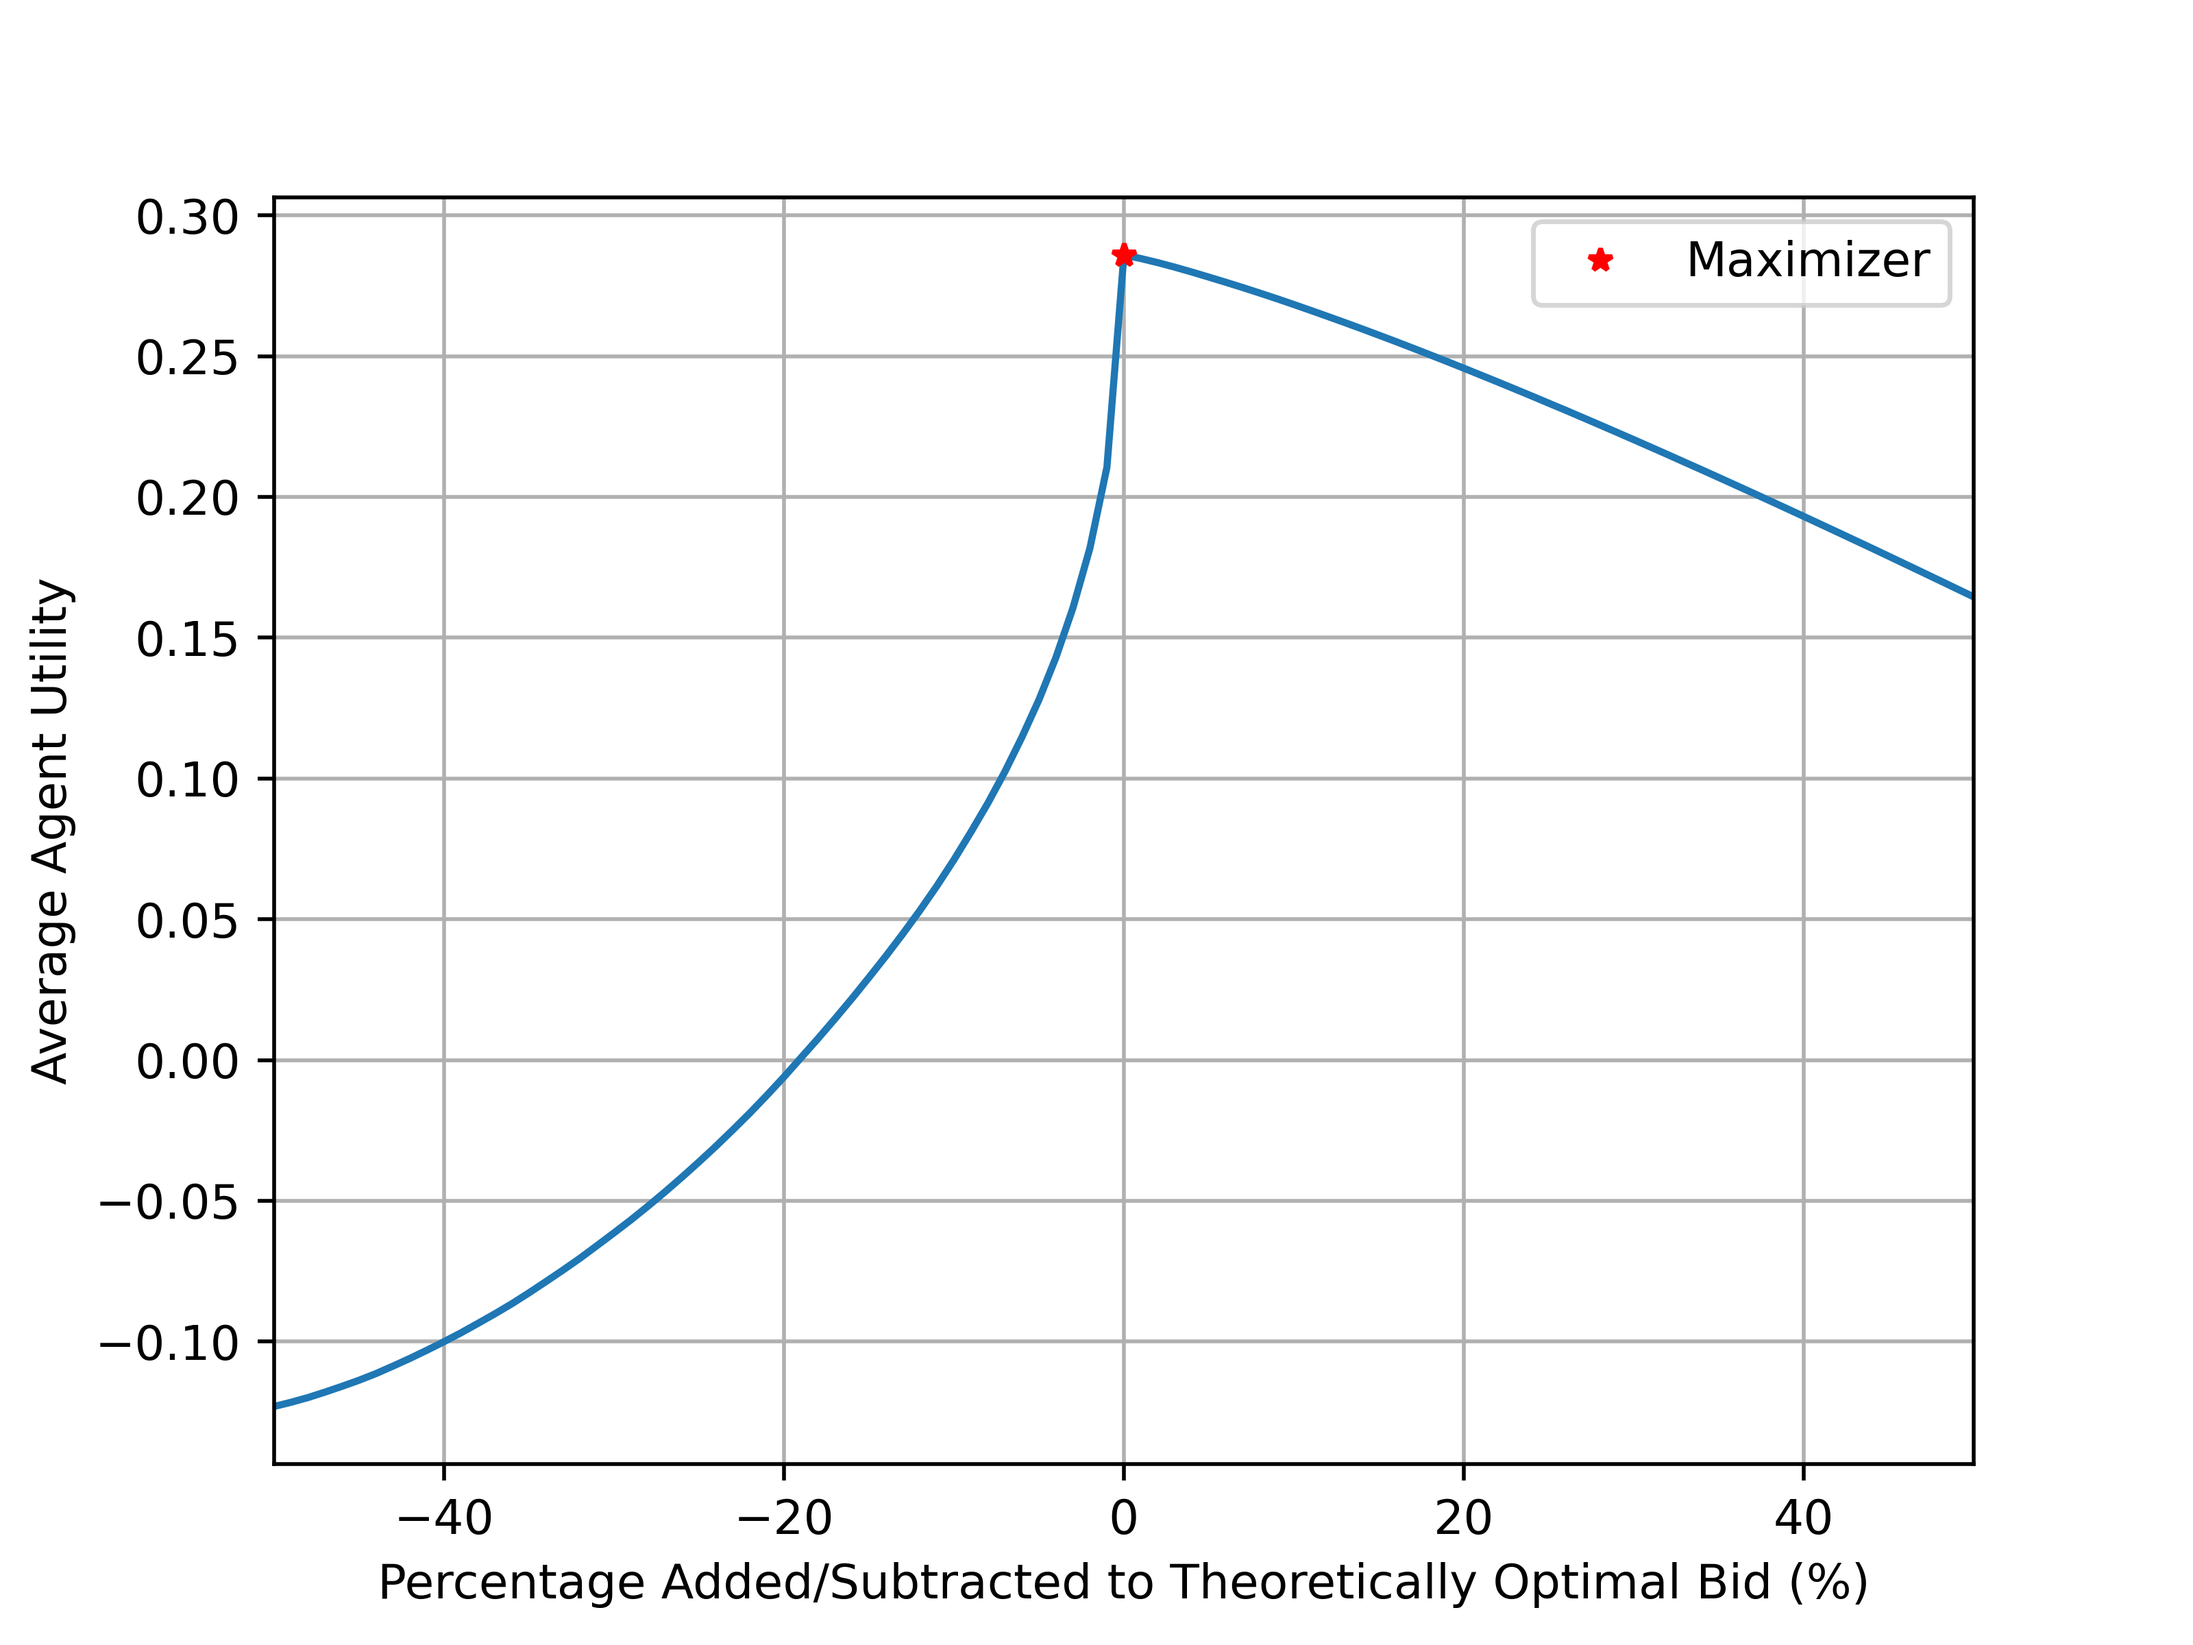
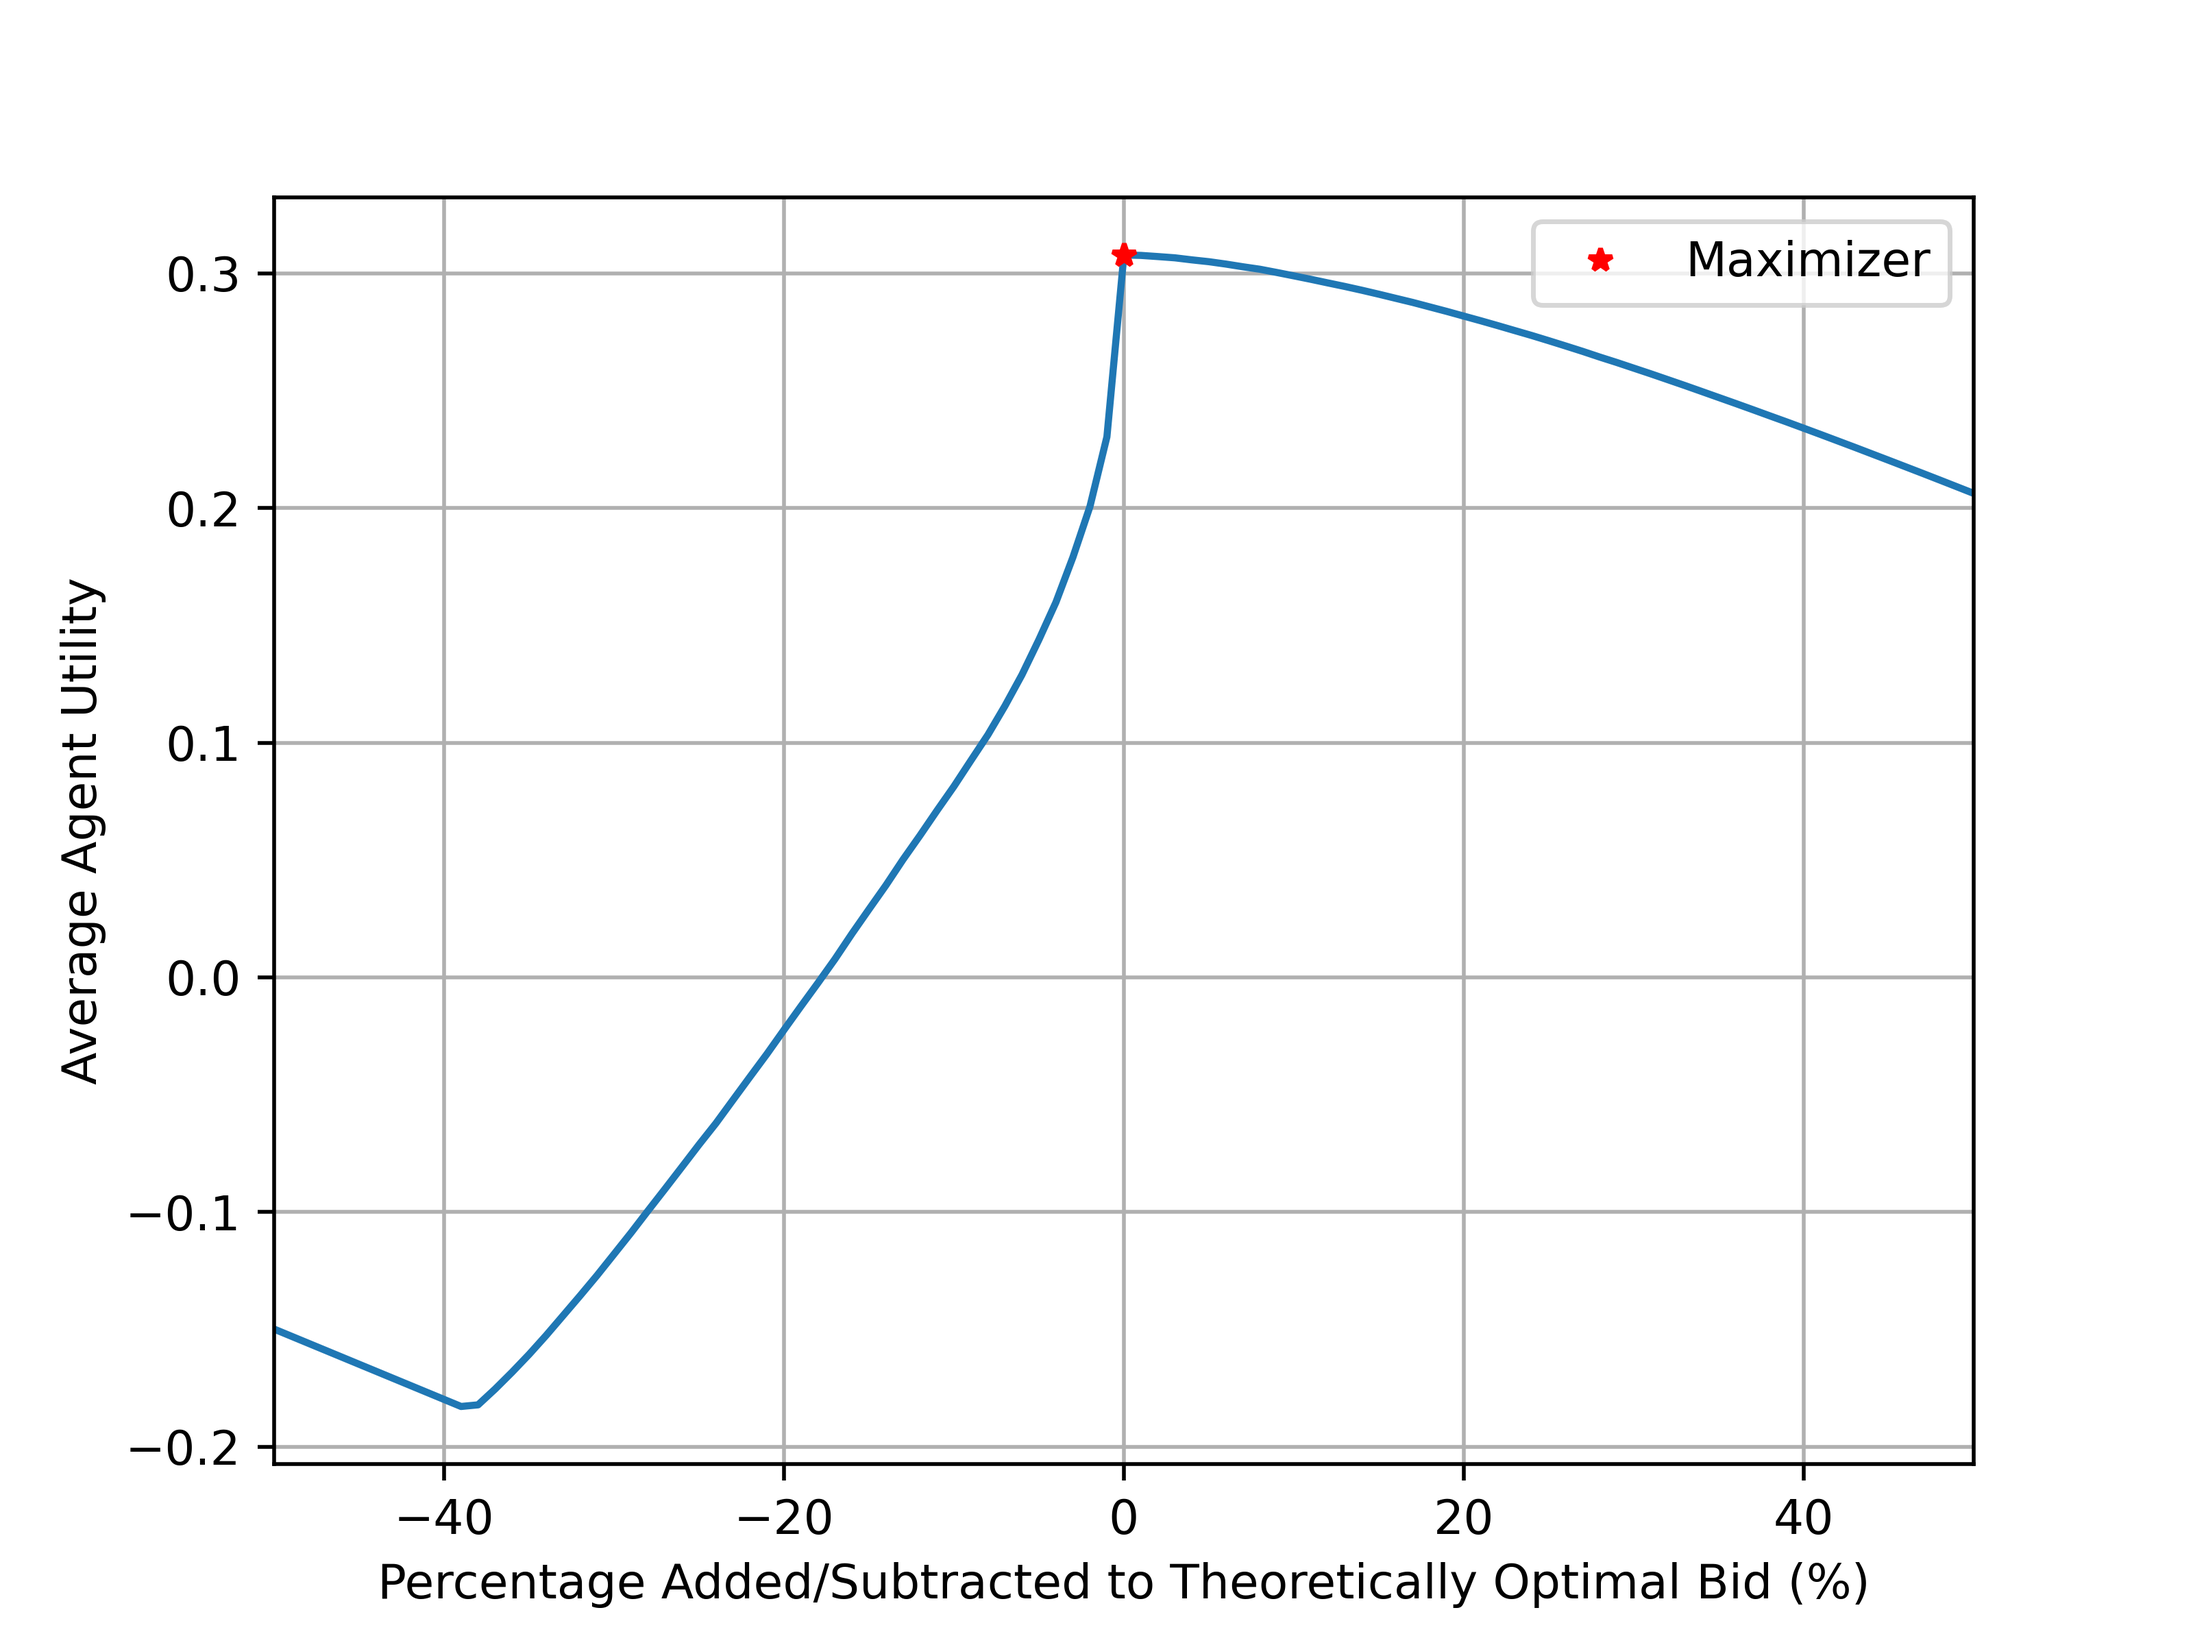
fix uniform distribution issue

diff --git a/equilibrium.py b/equilibrium.py
@@ -5,7 +5,7 @@ from tqdm import tqdm
 
 def regauc_equilibrium(lambda_max, beta=False):
 
-    num_trials = 1000000
+    num_trials = 100000
     p_epsilon = 0.75
     diff = np.linspace(0.5, 1.5, 101, endpoint=True)
     i = 0
@@ -30,14 +30,18 @@ def regauc_equilibrium(lambda_max, beta=False):
         # get optimal bids & utility
         v_i_p = total_values * lambdas
         v_i_d = total_values * (1 - lambdas)
-        sq_v_i_p = np.square(v_i_p)
+        Fv = np.empty_like(v_i_p)
+        int_Fv = np.empty_like(v_i_p)
         if beta:
-            bids = np.minimum(1, p_epsilon + sq_v_i_p * (3 - 8 * v_i_p + 6 * sq_v_i_p))
+            bids = np.minimum(1, p_epsilon + np.square(v_i_p) * (3 - 8 * v_i_p + 6 * np.square(v_i_p)))
         else:
-            Fv = 2*v_i_p*np.log(1/p_epsilon) / (1-p_epsilon)
-            int_Fv = sq_v_i_p*np.log(1/p_epsilon) / (1-p_epsilon)
-            bids = np.minimum(1, p_epsilon + v_i_p*Fv - int_Fv)
-        utilities = v_i_d - bids + v_i_p * Fv
+            lower_bool = v_i_p <= p_epsilon/2
+            Fv[lower_bool] = 2 * v_i_p[lower_bool] * np.log(p_epsilon) / (p_epsilon-1)
+            Fv[~lower_bool] = (2 * v_i_p[~lower_bool] * (np.log(2*v_i_p[~lower_bool]) - 1) + p_epsilon) / (p_epsilon - 1)
+            int_Fv[lower_bool] = np.square(v_i_p[lower_bool])*np.log(p_epsilon) / (p_epsilon-1)
+            int_Fv[~lower_bool] = (4*np.square(v_i_p[~lower_bool]) * (2*np.log(2*v_i_p[~lower_bool]) - 3) + 8*p_epsilon*v_i_p[~lower_bool] - p_epsilon**2) / (8*(p_epsilon - 1))
+            bids = np.minimum(1, p_epsilon + v_i_p * Fv - int_Fv)
+            utilities = v_i_d - bids + v_i_p * Fv
 
         # do not count the run if one agent utility is less than participatory
         if np.any(utilities <= 0):

diff --git a/simulations.py b/simulations.py
@@ -21,6 +21,8 @@ def regauc_sim(lambda_max, beta=False):
     ra_avgerage_bids = np.empty_like(epsilons)
     st_rates = np.empty_like(epsilons)
     st_average_bids = np.empty_like(epsilons)
+    Fv = np.empty_like(v_i_p)
+    int_Fv = np.empty_like(v_i_p)
 
     i = 0
     for p_epsilon in tqdm(epsilons):
@@ -29,8 +31,14 @@ def regauc_sim(lambda_max, beta=False):
             ra_bids = np.minimum(p_epsilon + sq_v*(3 - 8*v_i_p + 6*sq_v), 1)
             ra_participation_utility = v_i_d + 2*sq_v*(3 - 6*v_i_p + 4*sq_v) - ra_bids
         else:
-            Fv = 2 * v_i_p * np.log(1 / p_epsilon) / (1 - p_epsilon)
-            int_Fv = sq_v * np.log(1 / p_epsilon) / (1 - p_epsilon)
+            lower_bool = v_i_p <= p_epsilon / 2
+            Fv[lower_bool] = 2 * v_i_p[lower_bool] * np.log(p_epsilon) / (p_epsilon - 1)
+            Fv[~lower_bool] = (2 * v_i_p[~lower_bool] * (np.log(2 * v_i_p[~lower_bool]) - 1) + p_epsilon) / (
+                        p_epsilon - 1)
+            int_Fv[lower_bool] = np.square(v_i_p[lower_bool]) * np.log(p_epsilon) / (p_epsilon - 1)
+            int_Fv[~lower_bool] = (4 * np.square(v_i_p[~lower_bool]) * (
+                        2 * np.log(2 * v_i_p[~lower_bool]) - 3) + 8 * p_epsilon * v_i_p[
+                                       ~lower_bool] - p_epsilon ** 2) / (8 * (p_epsilon - 1))
             ra_bids = np.minimum(1, p_epsilon + v_i_p * Fv - int_Fv)
             ra_participation_utility = v_i_d - ra_bids + v_i_p * Fv
         ra_participate_bool = ra_participation_utility > 0
